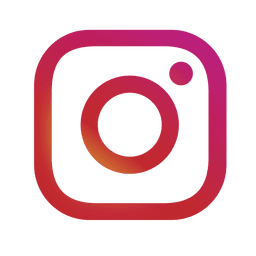
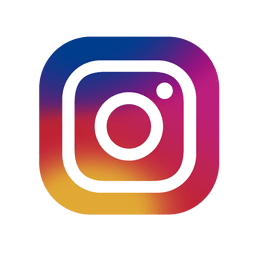
Att em 11/03/2020 as 23:22

diff --git a/src/App.vue b/src/App.vue
@@ -60,40 +60,52 @@
             <tr>
               <th>
                 <v-card style="color: white" color="success" class="mt-2">
+                  <v-card-actions>
+                    <v-spacer></v-spacer>
+                    <v-btn @click="pularLogin()" class="pr-2 elevation-12">Pular Login ►</v-btn>
+                  </v-card-actions>
+                  <v-divider></v-divider>
                   <v-card-title><h2>SEJA BEM-VINDO, PLAYER!</h2></v-card-title>
                   <v-card-text>
                     <p align="left">O jogo <span style="color: green">JAKA Game&copy;  </span> (Red version) é um jogo de baralho comum ao qual alinha estratégia, blefe e uma pitada de sorte também. O objetivo do jogo é formar a palavra <span style="color: black">JAKA</span> com as cartas valetes, ás e reis, e baixá-las na mesa antes de todos os seus oponentes.</p>
                     <p align="left">Para saber mais sobre como jogar, acesse nosso instagram, siga a gente, lá tem dicas de como jogar JAKA em grupo ou contra uma pessoa:</p>
                     <table>
                       <tr>
-                        <th>
-                          <v-img class="mt-2 mb-2 pa-3 icones" :src="instaSets.image"></v-img>
+                        <th align="center">
+                          <v-img style="width: 60px; height: 60px" class="mt-2 mb-2 pa-3 icones" :src="instaSets.image"></v-img>
+                        </th>
+                        <th style="width: 20px">
+
+                        </th>
+                        <th align="center">
+                          <v-img style="width: 42px; height: 42px" class="mt-2 mb-2 pa-3 icones" :src="facebookSets.image"></v-img>
                         </th>
                       </tr>
                       <tr>
                         <th style="color: black">
                           @jaka.game
                         </th>
+                        <th>
+
+                        </th>
+                        <th style="color: black">
+                          @jakathegame
+                        </th>
                       </tr>
                     </table>
                     <br>
                     <br>
                     <p align="left">Você pode acessar as regras do game também pelo link abaixo:</p>
-                    <p align="left"><span style="font-size: 14pt"><a style="color: black" href="http://bit.ly/jakagameregras" target="_blank">► VER AS REGRAS</a></span></p>
+                    <p align="left"><span style="font-size: 14pt"><a style="color: orange" href="http://bit.ly/jakagameregras" target="_blank">► REGRAS</a></span></p>
                     <br>
-                    <p align="left">O jogo já está formado com regras claras e formato de jogo definidos, porém, este site é apenas uma plataforma de testes para o jogo. Nosso objetivo é testar para quem sabe, desenvolver um app e aprimorar o sistema para que possamos oferecer jogos online do JAKA Game. Então estamos em fase inicial ainda, por isso queremos sua opinião. Ajude-nos. O que podemos melhorar no site?</p>
+                    <p align="left">O jogo já está formado com regras claras e formato de jogo definidos, porém, este site é apenas uma plataforma de testes para o jogo. Nosso objetivo é testar para quem sabe, desenvolver um app e aprimorar o sistema para que possamos oferecer jogos online do JAKA Game. Então estamos em fase inicial ainda, por isso queremos sua opinião. Ajude-nos. O que podemos melhorar aqui no site do game?</p>
                     <p align="left" style="font-size: 18pt">Opine por meio deste formulário no google drive, nos ajudará muito:</p>
-                    <p align="left"><a style="font-size: 14pt; color: black" href="http://bit.ly/jakagameform" target="_blank">► O QUE PRECISA MELHORAR?</a></p>
+                    <p align="left"><a style="font-size: 14pt; color: orange" href="http://bit.ly/jakagameform" target="_blank">► O QUE PRECISA MELHORAR?</a></p>
                     <br>
                     <p align="left">Fique por dentro também das novidades da plataforma do jogo, pois lá iremos atualizar possíveis e futuras atualizações pro jogo.</p>
-                    <p align="left"><span style="font-size: 14pt"><a style="color: black" href="http://bit.ly/jakagameanuncios" target="_blank">► NOVIDADES</a></span></p>
+                    <p align="left"><span style="font-size: 14pt"><a style="color: orange" href="http://bit.ly/jakagameanuncios" target="_blank">► NOVIDADES</a></span></p>
 
                   </v-card-text>
-                  <v-divider></v-divider>
-                  <v-card-actions>
-                    <v-spacer></v-spacer>
-                    <v-btn @click="pularLogin()" class="pr-2 elevation-12">Pular Login ►</v-btn>
-                  </v-card-actions>
                 </v-card>
               </th>
             </tr>
@@ -219,6 +231,7 @@ export default {
     usaIco: {'image': require('@/assets/usaflag.svg')},
 
     instaSets: {'image': require('@/assets/insta.png')},
+    facebookSets: {'image': require('@/assets/facebook.png')},
 
     cartaExemplo1: {'image': require('@/assets/cartas/valetedeouros.png')},
     cartaExemplo2: {'image': require('@/assets/cartas/damadeespadas.png')},
